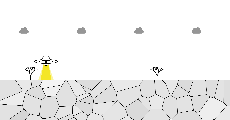
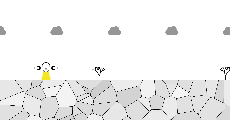
added bigger clouds and changed ground generation

diff --git a/draw_one_frame.js b/draw_one_frame.js
@@ -49,7 +49,7 @@ function drawCloud(){
 }
 /**draw the ship */
 function drawShip(cur_frac){
-	//keyframes so the ship to change height:
+	//keyframes for the ship to change on height:
 	const jumpStart=9;
 	const jumpEnd=18;
 	const jumpTop=(jumpStart+jumpEnd)/2-1;
@@ -59,13 +59,13 @@ function drawShip(cur_frac){
 	const shipRiseEase = ease.circularInOut(cur_frac*1.5);
 	rectMode(CENTER);
 	//work out ship height:
-	if(frameNo>=jumpStart&&frameNo<=jumpTop){
+	if(frameNo>=jumpStart&&frameNo<=jumpTop){//rising in height
 		shipY=map(shipRiseEase, 0, 1, groundY-canvasHeight/10, jumpHeight);
 	}
-	else if(frameNo>=jumpTop&&frameNo<=jumpEnd){
+	else if(frameNo>=jumpTop&&frameNo<=jumpEnd){//lowering in height
 		shipY=map(frameNo, jumpTop, jumpEnd,jumpHeight, groundY-(canvasHeight/10));
 	}
-	else{
+	else{//default "on the ground" height
 		shipY=groundY-(canvasHeight/10);
 	}
 	
@@ -100,9 +100,10 @@ function drawShip(cur_frac){
 	arc(shipX,shipY-canvasHeight/60,width/30,width/30,160,20,CHORD);//top dome
 	
 	//small circles on the body:
-	ellipse(shipX,shipY+canvasHeight/180,width/150);// centre small circle
-	ellipse(shipX-width/40,shipY,width/150);//left
-	ellipse(shipX+width/40,shipY,width/150);//right
+	let smallCircleWidth=width/150;
+	ellipse(shipX,shipY+canvasHeight/180,smallCircleWidth);// centre small circle
+	ellipse(shipX-width/40,shipY,smallCircleWidth);//left
+	ellipse(shipX+width/40,shipY,smallCircleWidth);//right
 }
 /**Draws the ground */
 function drawGround(){
@@ -121,8 +122,8 @@ function drawGround(){
 	let y=0;
 	for (let i = 0; i < voronoiSegments; i++) {
 		x=random(0, width);
-		y=random(0,canvasHeight-groundY);
-		noiseColor = getNoiseValue(pixelSize*x,pixelSize*y, 0.1, "noiseColor",0,1, width/5 );
+		y=random(0,canvasHeight-groundY+5);
+		noiseColor = getNoiseValue(pixelSize*x,pixelSize*y, 0.8, "noiseColor",0,1, width/5 );
 		noiseLerp = lerpColor(color(255),color(200),noiseColor);
 		voronoiSite(x,y,noiseLerp);
 	}

diff --git a/README.md b/README.md
@@ -1,1 +1,1 @@
-I have decreased the stroke on the ground as it was drawing too much attention. I have also added a pulsing effect to the clouds to add to the gamelike effect. I still feel like there is something missing in the sky as there is too much white space but I can't put my finger on it.
+I have scaled the clouds and I think it looks a lot better as there is less negative space in the sky.I also adjusted the voronoi pattern and the bottom becuase there were a few tiny sedgments that looked weird.
